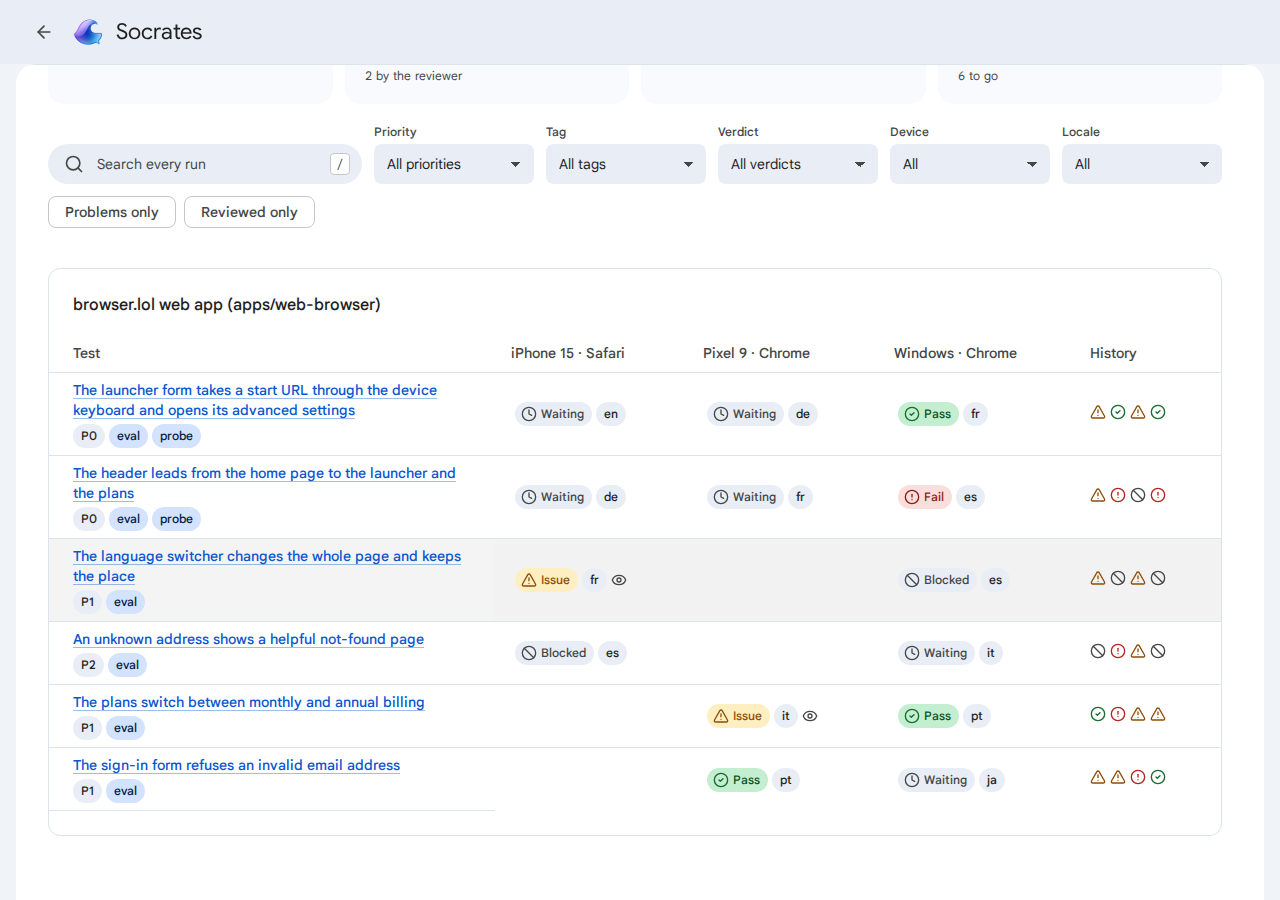
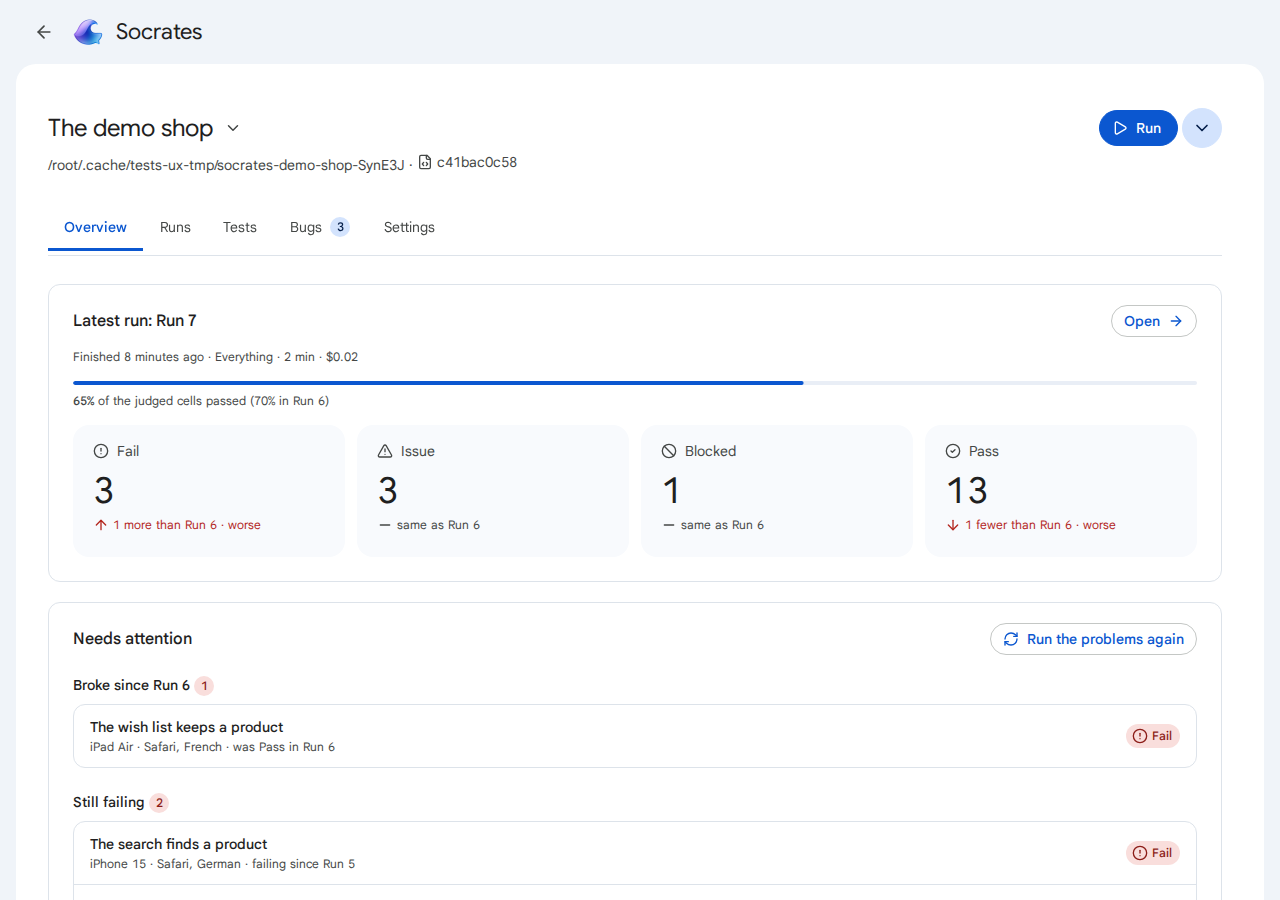
Tests page: the device tests, the spec and the README after the UX review
The one device test of the Tests page checked an empty state that the
QA instance no longer has (it has the Demo shop with four runs). Three
tests take its place: the Overview, a run's results and a cell in the
viewer (P1); the Tests view with a test's history, and the Bugs view
with a bug, read only (P1); the Run dialog, its quick runs and the
Settings, looked at and cancelled (P2). TEST-MODE.md says where the page
differs after the review; the README shows the new Overview.

Also drops a page rule that changed the type of DS's page title.

diff --git a/internal/web/static/css/so-tests.css b/internal/web/static/css/so-tests.css
@@ -65,7 +65,6 @@
 
 .so-tests-head__title > .ds-page-head__title {
   min-width: 0;
-  overflow-wrap: anywhere;
 }
 
 .so-tests-split {

diff --git a/docs/design/TEST-MODE.md b/docs/design/TEST-MODE.md
@@ -609,6 +609,51 @@ and where the format is described), the repository as the folder. *Start chat* o
 **Home** shows an active run as one card ("Tests · browser.lol · 23 of 54 cells · 4 running · 3
 waiting for BrowserStack") that opens the run.
 
+**After the UX review** (branch `tests-ux`), where the page now differs from the text above:
+
+- **One way to say things.** The verdicts always come in the order Fail · Issue · Blocked · Pass ·
+  N/A (tiles, result bars and counts, filters, legends, the trend from the top, the override dialog;
+  `testsview.js` `VERDICTS`). A problem that lasts is said in its verdict's words: "failing since Run
+  1", "an issue since Run 1", "blocked since Run 3" (`sinceWords`). A run's name is quoted, Run 6
+  “live”, so it never reads like a state. Tests come in the order a run takes them, P0 first, then
+  by id, in the Tests view and in a run's results alike (`testOrder`).
+- **Head and banner.** Run sits in the title's row, so it stays beside the title on a phone; there the
+  path and commit are in the title's menu instead. The Run menu's quick runs are headed *Start now*
+  and each asks first with its cell count. The banner of the active run is left out where the view
+  shows that run already: its run view (whose head gets the progress) and the Overview (whose Live card
+  takes the progress, *Watch* and *Stop*). On a phone it is one line, "Run 7 · 17 of 20 done", with
+  *Watch* and *Stop*, over its bar. A running run's changes are "so far".
+- **Overview.** A tile's change says which way and what it means, by a glyph and a word ("↑ 1 more
+  than Run 5 · worse"). Needs attention keeps the problems that stay apart by verdict: *Still failing*,
+  *Still with issues*, *Still blocked*. A live card names its step from the catalog ("Step 2 of 4: Open
+  the first result"), never the tools' caption, which stays in the actions log.
+- **Tables.** A cell is its verdict and marks, the other dimensions' values in a quieter line under
+  them; a line over the tables explains the marks (broke, fixed, reviewed, your verdict, attempt 2 or
+  later; flaky in the Tests view). Every area's table has the same columns (the widest area's count,
+  fixed widths), so the areas line up. The Tests view says an area's latest run once in its head
+  ("Latest: Run 6"); a test names its run only where it differs. The phone's runs list has the state
+  and "↓ 3 broke · ↑ 1 fixed" too.
+- **The cell viewer.** Its actions follow the verdict: on a problem *Override verdict*, *Retry*, *Fix
+  in a chat*; on a pass no *Fix in a chat*; on a cell at work neither of the first two. The rest is in
+  *More* (a menu, an action sheet on a phone): *Open the agent’s transcript* and *Run this cell in a
+  new run*. Every action keeps its words on a phone. The cell's bugs are chips in its head ("B-5 ·
+  Major · open") that open the bug; overriding to Pass or N/A offers to mark them Not a bug too (PATCH,
+  the note going with it when the bug has none). The steps are one tab stop that ↑ and ↓ walk; one
+  Escape closes the viewer even while a tooltip shows (DS gives that key to the tooltip first).
+- **The Run dialog.** *Choose…* starts with nothing ticked (*Select all*, *Select none*, *Only this*
+  per test); Start says "Pick at least one test" until one is. The settings line names every role's
+  model ("Cells: Sonnet 5.5 · Review: Opus · Analysis: Opus · up to 2 attempts"); its toggle reads
+  *Change for this run* / *Use the defaults*. Settings, the Run dialog and *Start now* say when a role
+  has no account Socrates knows to be signed in (a warning: the server still tries the others, since
+  the program may be signed in on its own) and block a start only when a role's program is not
+  installed or switched on, or its chosen accounts are gone; the chat dialog warns the same way.
+- **Bugs.** A bug that came back is "Open · came back" in the list, its head and its triage. The note
+  saves itself when the field is left (or with Ctrl+Enter), with a quiet "Saved" under it, like the
+  rest of the triage. Why no GitHub issue can be made is written under the bug's head. The Tools card
+  shows the secrets command only inside *How secrets are read*.
+- **Snackbars** close when the person moves to another place of the page (not when the cell viewer
+  opens or closes) and when the Run dialog opens.
+
 ## Code layout in Socrates
 
 | Where | What |

diff --git a/.socrates/tests/web/pages/tests-overview.md b/.socrates/tests/web/pages/tests-overview.md
@@ -1,0 +1,27 @@
+---
+title: The Tests page shows how the Demo shop stands, a run's results and a cell in the viewer
+priority: P1
+tags: [pages, tests, layout]
+---
+The Demo shop and its four runs are shared by every cell: read them, never stop, retry, override,
+pin, analyse or delete anything (TESTS.md). Another cell's run of `shop/home` may be running: then the
+Overview starts with a Live card for it, which is fine; never press its Stop.
+
+## Steps
+
+1. Sign in and open Tests from the session list.
+   Expect: the page "Demo shop" with the Run button beside the title (on a phone too, on the same line), the tabs Overview, Runs, Tests, Bugs (with a count) and Settings; on a desktop the repository's path under the title. No banner above the tabs unless another cell's run is active (then one line on a phone: "Run N · x of y done" with Watch and Stop).
+2. On a phone or a narrow tablet, open the title's menu (the arrow beside "Demo shop"), then close it with Escape or a tap outside.
+   Expect: the menu shows the repository's path and the latest run's commit at its top, then Repositories with Demo shop ticked, Add repository and Remove from the list; it fits the screen and closes without changing anything. On a desktop `na` when the path is already shown under the title (open the menu anyway and say what it shows).
+3. Read the Overview from top to bottom.
+   Expect: "Latest run: Run 4 “Demo run 4”" with four tiles in the order Fail, Issue, Blocked, Pass, each with its change against Run 3 as an arrow and a word ("1 more than Run 3 · worse", "same as Run 3"); Needs attention with "Broke since Run 3" (The search finds a product), "Still with issues" (the product page, "an issue since Run 1"), never an Issue cell under "Still failing"; a trend of the last runs with its legend Fail, Issue, Blocked, Pass. Nothing overlaps or is cut off; no sideways scroll.
+4. Open the Runs tab and then Run 4.
+   Expect: the runs newest first with a result bar, its counts (fail, issue, blocked, pass in that order) and their state (on a phone too, with "↓ 1 broke" or "↑ 1 fixed" where a run changed); Run 4's view has its head (Done, "broke since Run 3", commit, when, how long), the line "Cells: … · Review: … · Analysis: …", and Results with a table per area (on a phone: per test a list of its cells). The areas' columns line up from table to table on a desktop or tablet; under each verdict the other values (the locale) in a quieter line; a line explains the marks (broke, reviewed, attempt).
+5. Tap a cell whose verdict is Fail (The search finds a product).
+   Expect: the cell viewer fills the window: the test's title and the cell's values at the top with "x of y" and previous/next; the verdict, "Regressed" and who gave it ("The agent said Fail · the reviewer kept it"); a bug chip such as "B-n · Major · open"; the actions Override verdict, Retry and Fix in a chat, all with their words (also on a phone), and More. The steps say "Step 1 of 2: …" with the step's own action, not a raw caption; on a phone each step has its screenshot under it.
+6. Open More, look at it, and close it without choosing anything.
+   Expect: on a desktop a menu, on a phone an action sheet from the bottom, with "Open the agent’s transcript" and "Run this cell in a new run"; Escape or Cancel closes it and the viewer stays open. Never choose an item.
+7. On a desktop, use the keys: press ↓ in the list of steps, → for the next screenshot, `?` for the keys, then Escape twice.
+   Expect: ↓ selects the next step and its screenshot; → moves to the next screenshot; `?` opens "Keys of the cell viewer" listing ↑ ↓ for the steps; the first Escape closes the keys, the second the viewer (one Escape is enough even while a tooltip shows). On a phone or tablet without a keyboard `na`: close the viewer with its × instead.
+8. Open a cell whose verdict is Pass, then close the viewer.
+   Expect: Override verdict and Retry, but no Fix in a chat (a pass has nothing to fix); the viewer closes and the run's results are where they were.

diff --git a/.socrates/tests/web/pages/tests-catalog-bugs.md b/.socrates/tests/web/pages/tests-catalog-bugs.md
@@ -1,0 +1,25 @@
+---
+title: The Tests page lists the Demo shop's tests with their history, and its bugs
+priority: P1
+tags: [pages, tests, layout]
+---
+The Demo shop's tests, runs and bugs are shared by every cell: read them only. Never start, stop or
+retry a run here, never change a bug's status, severity or note and never make a GitHub issue
+(TESTS.md).
+
+## Steps
+
+1. Sign in, open Tests from the session list, then the Tests tab.
+   Expect: the catalog's size ("10 tests in 2 areas"), Read again and Write a test with an agent, a search, the chips Problems, Flaky and the priorities; per area a card with "Latest: Run 4" in its head (or the newest run that ran it) and its tests in catalog order, P0 first. Each test shows its id and how it stands ("failing since Run 4", "an issue since Run 1", "flaky"), and its run only where it is not the area's latest.
+2. Look at the tables (on a phone, the lists of cells) from top to bottom.
+   Expect: on a desktop or tablet the two areas' columns (phone, tablet, desktop) line up from card to card and no row has a stray line under its first column only; a cell is its verdict with the locale in a quieter line under it. No sideways page scroll; a wide table scrolls inside itself.
+3. Scroll to Tools at the end and open "How secrets are read".
+   Expect: the tool's name, its secret names and pool; the command that reads the secrets only inside the disclosure, with the line that the values are never shown. No secret value is printed anywhere on the page.
+4. Open the test "The search finds a product".
+   Expect: its head (file, cells, "Fail in Run 4, since Run 4", P1 and its tags) with Change it with an agent and Run this test; History as a grid, the newest run first (on a phone a row per cell with its last runs as glyphs), a legend in the order Fail, Issue, Blocked, Pass; What it does with its steps; its open bug.
+5. Press a verdict in the history, look, and close the viewer.
+   Expect: the cell viewer opens on that run's attempt of the cell; closing it comes back to the test.
+6. Open the Bugs tab.
+   Expect: the chips Open, Known, Fixed, Not a bug and All with counts, Open chosen; the bugs worst first, each with its severity, id and title, its status ("Open", or "Open · came back" for one that returned), the runs it was seen in and its cells (on a phone as a list with the severity and status under the title).
+7. Open the first open bug and read it to the end, without changing anything.
+   Expect: its head with Create GitHub issue (unavailable on the test instance, with the reason written under the head, not only in a tooltip), Run its cells again and Fix in a chat; What the analyst found; its cells with their screenshots; Triage with the line that every change saves by itself and a note saved when the field is left; Seen in and History. Nothing is cut off on the device.

diff --git a/.socrates/tests/web/pages/tests-run-dialog.md b/.socrates/tests/web/pages/tests-run-dialog.md
@@ -1,0 +1,22 @@
+---
+title: The Tests page's Run dialog, its quick runs and the Settings fit the device
+priority: P2
+tags: [pages, tests, layout]
+---
+Look only: never start a run in this test, never change the roles and never save the Settings
+(TESTS.md). Cancel every dialog.
+
+## Steps
+
+1. Sign in, open Tests from the session list, and open the arrow beside Run.
+   Expect: a menu headed "Start now" with Everything, The problems of Run 4 and Only P0, P1, P2, each with its number of cells, and Choose what to run…; close it with Escape or a tap outside, without choosing.
+2. Press Run.
+   Expect: the sheet "Run tests" (the whole screen on a phone) with What to run as cards with their cell counts (Everything chosen), the settings of this run as one line naming every role ("Cells: … · Review: … · Analysis: …") with Change for this run, an optional name whose hint reads like Run 5 “Before the release”, and Start with the cell count in the foot.
+3. Choose "Choose…".
+   Expect: the tree of areas and tests with nothing ticked, Select all and Select none, the chips of priorities, tags and values; the foot says "Pick at least one test" and Start is unavailable.
+4. Tick one test, then press Select all, then Select none.
+   Expect: the counts follow (one test, then every test, then none); Start says how many cells it would run and is unavailable again after Select none.
+5. Press Change for this run, look at the roles, then press Use the defaults, then Cancel.
+   Expect: the roles' program, model, effort and accounts open under the line; a role without a signed-in account is said in a warning at the top with a link to Admin; Use the defaults folds them away; Cancel closes the sheet and nothing started (no new run in the Runs tab).
+6. Open the Settings tab and scroll through it without changing anything.
+   Expect: a warning at the top if a role has no signed-in account (with "Accounts in Admin"); Agents with the three roles, How runs go, MCP servers for test cells, Keeping runs and This server; every field fits the screen and no save bar shows.

diff --git a/.socrates/tests/README.md b/.socrates/tests/README.md
@@ -11,7 +11,7 @@ step on its screenshots.
 |---|---|
 | `TESTS.md` | Rules for every cell: the test instance only, the shared instance, the agents in it, secrets |
 | `web/AREA.md` | The devices, the target URL, how a cell is worked, the layout checks every step makes, verdicts |
-| `web/<group>/<test>.md` | 28 tests: `sign-in`, `home`, `sessions`, `chat`, `shell`, `admin`, `pages` |
+| `web/<group>/<test>.md` | 30 tests: `sign-in`, `home`, `sessions`, `chat`, `shell`, `admin`, `pages` |
 | `tools/browserstack/` | `qa`, the BrowserStack driver (ported from browser.lol's Device QA), its `TOOL.md` |
 | `../../scripts/qa-instance.sh` | Installs, updates, resets and removes the test instance |
 | `../../scripts/qa-demo-tests/` | The Demo shop: the test catalog whose runs the instance's Tests page shows |
@@ -28,7 +28,7 @@ step on its screenshots.
 | `mac-safari` | macOS · Safari | Desktop |
 
 Extras a test may name: `iphone-old` (iOS 16), `moto`, `samsung` (Samsung Internet), `win-firefox`,
-`win-edge`. The full run is 166 cells (every test on every device; rotation only on the four that
+`win-edge`. The full run is 178 cells (every test on every device; rotation only on the four that
 rotate).
 
 ## The test instance

diff --git a/README.md b/README.md
@@ -122,7 +122,7 @@ You can run it again at any time to repair or update the installation.
 
 ## 🧪 Tests
 
-<img src="docs/screenshot-tests.png" alt="Tests: a run's results, one row per test and one column per device" width="760">
+<img src="docs/screenshot-tests.png" alt="Tests: the latest run as tiles per verdict with the change against the run before, and what needs attention" width="760">
 
 A repository brings its own test catalog; Socrates runs it with agents.
 
